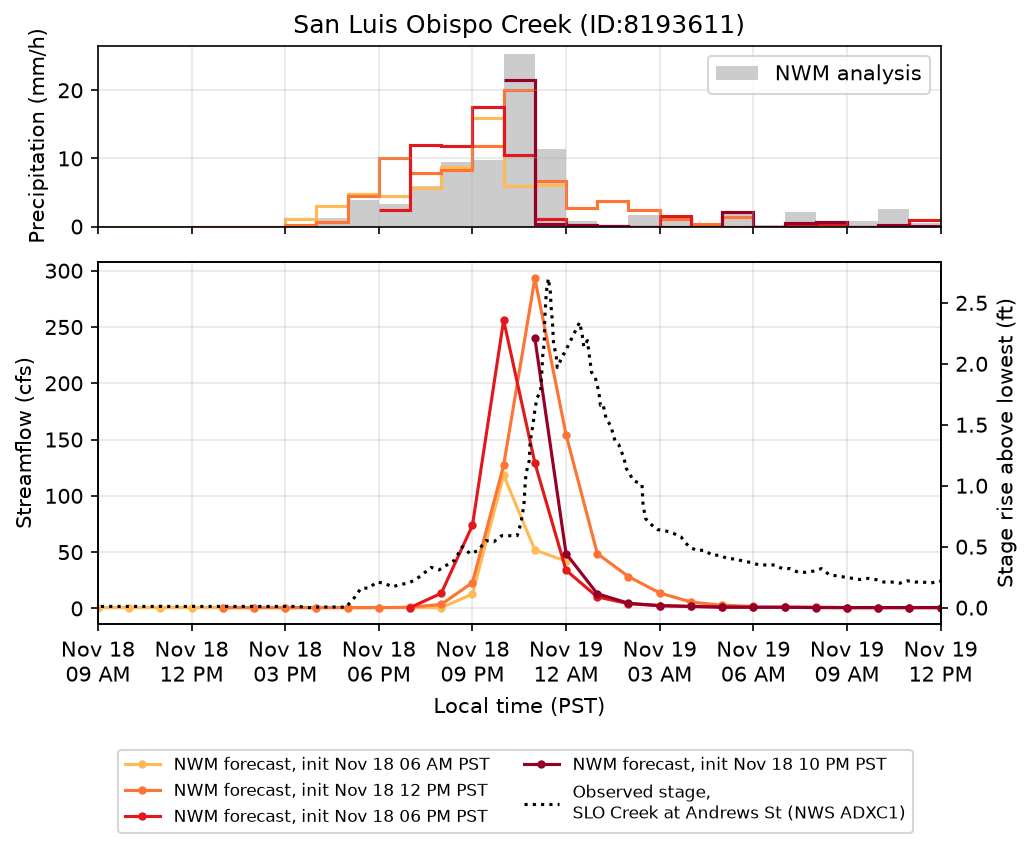
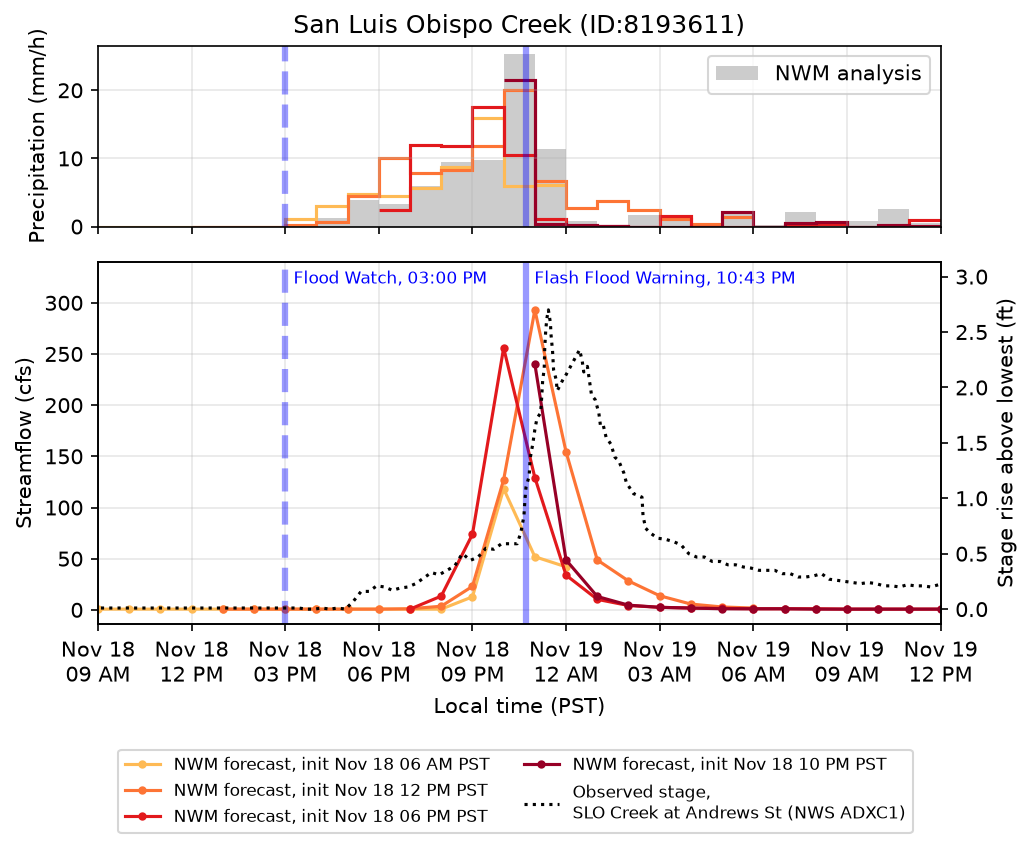
add more maps

diff --git a/gridmet_precip_map.py b/gridmet_precip_map.py
@@ -1,0 +1,313 @@
+# %% [markdown]
+
+# gridMET 48-hour precipitation map of San Luis Obispo County for the Flood Event on November 18, 2026
+# - gridMET is a daily gridded dataset with 1/24 degree (about 4 km) cells: https://www.climatologylab.org/gridmet.html
+# - A gridMET day ends at about midnight Mountain Standard Time (11 PM PST), so the
+#   two days Nov 18 and Nov 19 cover Nov 17 11 PM to Nov 19 11 PM PST.
+# - The newest days in gridMET are preliminary ("early", then "provisional") and can
+#   change in later updates. The script prints which kind it has read.
+# - This script stands alone: it fetches the outlines and basemap itself, in the
+#   same way as nwm_short_range_hindcast.py.
+
+# %% Imports
+import io
+import time
+from concurrent.futures import ThreadPoolExecutor
+from pathlib import Path
+
+import fsspec
+import matplotlib.colors as mcolors
+import matplotlib.pyplot as plt
+import numpy as np
+import pandas as pd
+import pyproj
+import requests
+import shapely
+import shapely.geometry
+import xarray as xr
+
+# %% Configurations
+
+# County that sets the map window: San Luis Obispo County
+# (Census GEOID: state 06 followed by county 079)
+COUNTY_GEOID = "06079"
+COUNTY_NAME = "San Luis Obispo County"
+
+# County outlines from the Census Bureau's TIGERweb service
+COUNTY_URL = (
+    "https://tigerweb.geo.census.gov/arcgis/rest/services/TIGERweb/"
+    "State_County/MapServer/1/query"
+)
+
+# NWM reaches (NHDPlus COMID) whose upstream basins are drawn on the map
+REACHES = {
+    8193611: "San Luis Obispo Creek (ID:8193611)",
+    8193637: "San Luis Obispo Creek (ID:8193637)",
+    8192679: "Stenner Creek (ID:8192679)",
+    8192681: "Old Garden Creek (ID:8192681)",
+}
+
+# gridMET daily precipitation, one file per year
+GRIDMET_URL = "https://www.northwestknowledge.net/metdata/data/pr_2026.nc"
+
+# First and last gridMET day to add up (two days = 48 hours)
+FIRST_DAY = "2026-11-18"
+LAST_DAY = "2026-11-19"
+
+# A gridMET day ends at midnight Mountain Standard Time: 07 UTC the next day
+DAY_END_UTC_HOUR = 7
+
+# Half the width of a gridMET cell, in degrees
+HALF_CELL = 1 / 48
+
+# gridMET precipitation is in millimetres; the map is in inches
+MM_PER_INCH = 25.4
+
+# Local timezone is Pacific Standard Time (UTC-8) in November
+LOCAL_TZ = "America/Los_Angeles"
+
+# Output directory
+OUT_DIR = Path("data")
+
+# Event name
+EVENT = "slo_20261118"
+
+# Colour map for precipitation
+PRECIP_CMAP = "YlOrRd"
+
+# Basin colours on the map: a gradient from the largest basin to the smallest
+BASIN_COLORS = ("dodgerblue", "purple")
+
+# Spacing of the longitude and latitude ticks, in degrees
+TICK_STEP = 0.25
+
+# Basemap: USGS topographic tiles (public domain)
+BASEMAP_URL = (
+    "https://basemap.nationalmap.gov/arcgis/rest/services/USGSTopo/MapServer/"
+    "tile/{zoom}/{row}/{col}"
+)
+BASEMAP_ZOOM = 10  # one level up doubles the detail and quadruples the tiles
+
+OUT_DIR.mkdir(exist_ok=True)
+
+
+def save_figure(fig: plt.Figure, path: Path, attempts: int = 5) -> None:
+    """Save a figure, retrying when Windows briefly has the old file locked."""
+    for attempt in range(attempts):
+        try:
+            fig.savefig(path, dpi=150, bbox_inches="tight")
+            return
+        except OSError:
+            if attempt == attempts - 1:
+                raise
+            time.sleep(1)
+
+
+# %% Outlines in lon/lat: the county, and the basin upstream of each reach
+response = requests.get(
+    COUNTY_URL,
+    params={
+        "where": f"GEOID='{COUNTY_GEOID}'",
+        "outSR": "4326",  # lon/lat
+        "f": "geojson",
+    },
+    timeout=120,
+)
+response.raise_for_status()
+county = shapely.geometry.shape(response.json()["features"][0]["geometry"])
+
+# Basin outlines come from the USGS NLDI service
+basins = {}
+for feature_id in REACHES:
+    response = requests.get(
+        f"https://api.water.usgs.gov/nldi/linked-data/comid/{feature_id}/basin",
+        timeout=120,
+    )
+    response.raise_for_status()
+    basins[feature_id] = shapely.geometry.shape(
+        response.json()["features"][0]["geometry"]
+    )
+
+# Box around the county (its outline includes the coastal waters)
+lon_min, lat_min, lon_max, lat_max = county.bounds
+
+# %% gridMET precipitation: every cell that touches the box, added up over the days
+# The file is read over the internet, and only the pieces holding these cells
+# are downloaded. Coordinates are cell centres; latitude runs north to south.
+with (
+    fsspec.open(GRIDMET_URL, "rb", block_size=2**20, cache_type="blockcache") as f,
+    xr.open_dataset(f, engine="h5netcdf") as ds,
+):
+    daily = ds["precipitation_amount"].sel(
+        day=slice(FIRST_DAY, LAST_DAY),
+        lat=slice(lat_max + HALF_CELL, lat_min - HALF_CELL),
+        lon=slice(lon_min - HALF_CELL, lon_max + HALF_CELL),
+    )
+    daily = daily.load()  # mm per day
+    newest_day = pd.Timestamp(ds["day"].values[-1])
+    # The file numbers its days from 1 and records (as text) where the final
+    # and the provisional data end
+    last_slice = int((ds["day"] <= np.datetime64(LAST_DAY)).sum())
+    if last_slice <= int(ds.attrs["last_permanent_slice"]):
+        status = "final"
+    elif last_slice <= int(ds.attrs["last_provisional_slice"]):
+        status = "provisional"
+    else:
+        status = "early"
+
+n_days = (pd.Timestamp(LAST_DAY) - pd.Timestamp(FIRST_DAY)).days + 1
+if daily.sizes["day"] != n_days:
+    raise ValueError(
+        f"gridMET has {daily.sizes['day']} of the {n_days} days asked for; "
+        f"its newest day is {newest_day:%Y-%m-%d}"
+    )
+
+# Inches. Cells over the ocean have no data and stay empty.
+total = daily.sum("day", skipna=False) / MM_PER_INCH
+
+# The period the days cover, in local time
+period_start = pd.Timestamp(FIRST_DAY, tz="UTC") + pd.Timedelta(hours=DAY_END_UTC_HOUR)
+period_end = period_start + pd.Timedelta(days=n_days)
+period_start, period_end = (t.tz_convert(LOCAL_TZ) for t in (period_start, period_end))
+period_hours = (period_end - period_start) / pd.Timedelta(hours=1)
+
+print(f"gridMET {FIRST_DAY} to {LAST_DAY} ({status} data)")
+print(f"Covers {period_start:%b %d %I %p} to {period_end:%b %d %I %p} local time")
+print(
+    f"{total.sizes['lat']} x {total.sizes['lon']} cells, "
+    f"{float(total.min()):.2f} to {float(total.max()):.2f} in"
+)
+
+# %% Map: precipitation cells and outlines on a USGS topographic basemap
+# The map is drawn in Web Mercator, the projection of the basemap tiles, with the
+# axes labelled in degrees. In Web Mercator x depends only on longitude and y
+# only on latitude, so the gridMET cells stay rectangles.
+WEB_MERCATOR_WIDTH = 2 * np.pi * 6378137  # metres around the equator
+to_web_mercator = pyproj.Transformer.from_crs("EPSG:4326", "EPSG:3857", always_xy=True)
+
+
+def lon_to_x(lon: np.ndarray) -> np.ndarray:
+    return to_web_mercator.transform(lon, np.zeros_like(lon))[0]
+
+
+def lat_to_y(lat: np.ndarray) -> np.ndarray:
+    return to_web_mercator.transform(np.zeros_like(lat), lat)[1]
+
+
+def outline_xy(polygon: shapely.Polygon) -> tuple[np.ndarray, np.ndarray]:
+    """Outer ring of a lon/lat polygon, in map coordinates."""
+    ring_lon, ring_lat = (np.asarray(c) for c in polygon.exterior.xy)
+    return lon_to_x(ring_lon), lat_to_y(ring_lat)
+
+
+def read_basemap(
+    west: float, south: float, east: float, north: float
+) -> tuple[np.ndarray, tuple[float, float, float, float]]:
+    """Basemap tiles covering a Web Mercator window: one image and its extent."""
+    tile_width = WEB_MERCATOR_WIDTH / 2**BASEMAP_ZOOM
+    half = WEB_MERCATOR_WIDTH / 2
+    # Tile columns count east from 180 W, tile rows count south from the top
+    cols = range(int((west + half) // tile_width), int((east + half) // tile_width) + 1)
+    rows = range(int((half - north) // tile_width), int((half - south) // tile_width) + 1)
+
+    def read_tile(row_col: tuple[int, int]) -> np.ndarray:
+        row, col = row_col
+        response = requests.get(
+            BASEMAP_URL.format(zoom=BASEMAP_ZOOM, row=row, col=col), timeout=120
+        )
+        response.raise_for_status()
+        return plt.imread(io.BytesIO(response.content), format="jpeg")
+
+    with ThreadPoolExecutor(max_workers=8) as pool:
+        tiles = list(pool.map(read_tile, [(row, col) for row in rows for col in cols]))
+    image = np.vstack(
+        [np.hstack(tiles[i : i + len(cols)]) for i in range(0, len(tiles), len(cols))]
+    )
+    extent = (
+        cols[0] * tile_width - half,
+        (cols[-1] + 1) * tile_width - half,
+        half - (rows[-1] + 1) * tile_width,
+        half - rows[0] * tile_width,
+    )
+    return image, extent
+
+
+# Cell edges, half a cell either side of the centres
+lon = total["lon"].values
+lat = total["lat"].values
+lon_edges = np.append(lon - HALF_CELL, lon[-1] + HALF_CELL)
+lat_edges = np.append(lat + HALF_CELL, lat[-1] - HALF_CELL)  # north to south
+x_edges = lon_to_x(lon_edges)
+y_edges = lat_to_y(lat_edges)
+
+# Map window: the whole of every cell read
+west, east = x_edges.min(), x_edges.max()
+south, north = y_edges.min(), y_edges.max()
+
+fig, ax = plt.subplots(figsize=(11, 6.5))
+basemap, basemap_extent = read_basemap(west, south, east, north)
+ax.imshow(basemap, extent=basemap_extent)
+
+# Precipitation: see-through cells over the basemap
+cells = ax.pcolormesh(
+    x_edges, y_edges, total.values, cmap=PRECIP_CMAP, vmin=0, alpha=0.65
+)
+fig.colorbar(
+    cells, ax=ax, shrink=0.8, label=f"{period_hours:.0f}-hour precipitation (in)"
+)
+
+# County outline (a county with islands has several parts)
+for i, part in enumerate(shapely.get_parts(county)):
+    ax.plot(
+        *outline_xy(part),
+        color="black",
+        linewidth=1.2,
+        label=f"{COUNTY_NAME} boundary" if i == 0 else None,
+    )
+
+# Basin outlines: largest first, so the basins nested inside it are drawn on top
+largest_first = sorted(REACHES, key=lambda f: basins[f].area, reverse=True)
+basin_colors = np.linspace(
+    mcolors.to_rgb(BASIN_COLORS[0]), mcolors.to_rgb(BASIN_COLORS[1]), len(largest_first)
+)
+for feature_id, color in zip(largest_first, basin_colors):
+    ax.plot(
+        *outline_xy(basins[feature_id]),
+        color=color,
+        linewidth=1.5,
+        label=f"Basin of {REACHES[feature_id]}",
+    )
+
+# Axes in degrees
+lon_ticks = (
+    np.arange(np.ceil(lon_edges.min() / TICK_STEP), np.floor(lon_edges.max() / TICK_STEP) + 1)
+    * TICK_STEP
+)
+lat_ticks = (
+    np.arange(np.ceil(lat_edges.min() / TICK_STEP), np.floor(lat_edges.max() / TICK_STEP) + 1)
+    * TICK_STEP
+)
+ax.set_xticks(lon_to_x(lon_ticks), [f"{tick:.2f}" for tick in lon_ticks])
+ax.set_yticks(lat_to_y(lat_ticks), [f"{tick:.2f}" for tick in lat_ticks])
+ax.set_xlabel("Longitude (degrees east)")
+ax.set_ylabel("Latitude (degrees north)")
+ax.set_xlim(west, east)
+ax.set_ylim(south, north)
+ax.set_title(
+    f"gridMET precipitation, {COUNTY_NAME}\n"
+    f"{period_start:%b %d %I %p} to {period_end:%b %d %I %p} PST"
+)
+ax.annotate(
+    f"Precipitation: gridMET ({status} data). Basemap: USGS The National Map",
+    xy=(1, 0),
+    xycoords="axes fraction",
+    xytext=(-4, 4),
+    textcoords="offset points",
+    ha="right",
+    fontsize="x-small",
+)
+fig.tight_layout()
+fig.legend(loc="upper center", bbox_to_anchor=(0.5, 0), ncol=2, fontsize="small")
+save_figure(fig, OUT_DIR / f"gridmet_precip_{period_hours:.0f}h_{EVENT}.png")
+
+plt.show()

diff --git a/nwm_short_range_hindcast.py b/nwm_short_range_hindcast.py
@@ -61,6 +61,17 @@ INIT_TIMES_LOCAL = [
 PLOT_START_LOCAL = "2026-11-18 09:00"
 PLOT_END_LOCAL = "2026-11-19 12:00"
 
+# NWS alerts drawn as vertical lines on the forecast plots:
+# the local time each took effect, and its line style (both lines are blue)
+NWS_ALERTS = {
+    "Flood Watch": ("2026-11-18 15:00", "--"),
+    "Flash Flood Warning": ("2026-11-18 22:43", "-"),
+}
+ALERT_LINE = {"color": "blue", "linewidth": 3, "alpha": 0.4}
+
+# Reaches whose plots show the alerts (Paso Robles is too far away)
+ALERT_REACHES = [8193611, 8193637, 8192679, 8192681]
+
 # Short-range forecast lead hours (CONUS, 18-hours, hourly)
 LEAD_HOURS = range(1, 19)
 
@@ -720,6 +731,29 @@ for feature_id, name in REACHES.items():
                 linestyle=next(stage_styles),
             )
             labels.append(f"Observed stage,\n{gauge_name} ({gauge})")
+
+    # NWS alerts: a vertical line on both panels at the time each took effect,
+    # named beside the line at the top of the streamflow panel
+    alerts = NWS_ALERTS if feature_id in ALERT_REACHES else {}
+    for alert, (alert_start, linestyle) in alerts.items():
+        alert_start = pd.Timestamp(alert_start)
+        ax_rain.axvline(alert_start, linestyle=linestyle, **ALERT_LINE)
+        ax_flow.axvline(alert_start, linestyle=linestyle, **ALERT_LINE)
+        ax_flow.annotate(
+            f"{alert}, {alert_start:%I:%M %p}",
+            xy=(alert_start, 1),  # at the line, top of the panel
+            xycoords=("data", "axes fraction"),
+            xytext=(4, -4),
+            textcoords="offset points",
+            va="top",
+            color=ALERT_LINE["color"],
+            fontsize="small",
+        )
+    if alerts:
+        # Headroom above the hydrographs, so the names never sit on the curves
+        for ax in filter(None, (ax_flow, ax_stage)):
+            bottom, top = ax.get_ylim()
+            ax.set_ylim(bottom, top + 0.1 * (top - bottom))
 
     ax_flow.set_xlabel("Local time (PST)")
     ax_flow.set_xlim(left=plot_start, right=plot_end)  # the rain panel shares this axis
